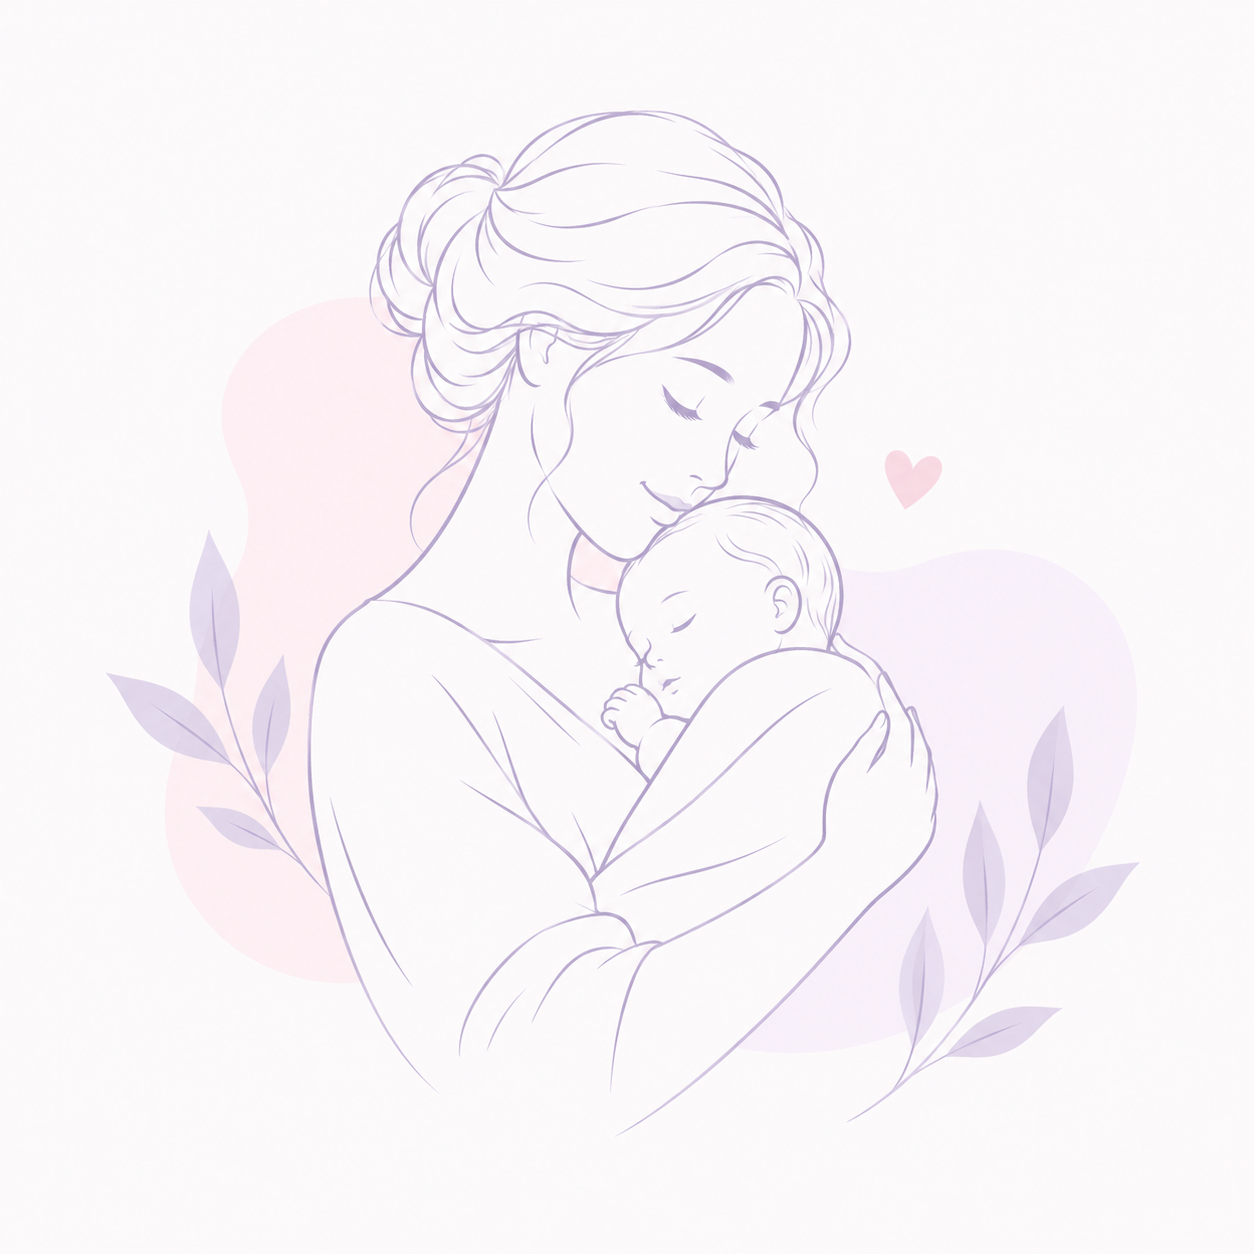
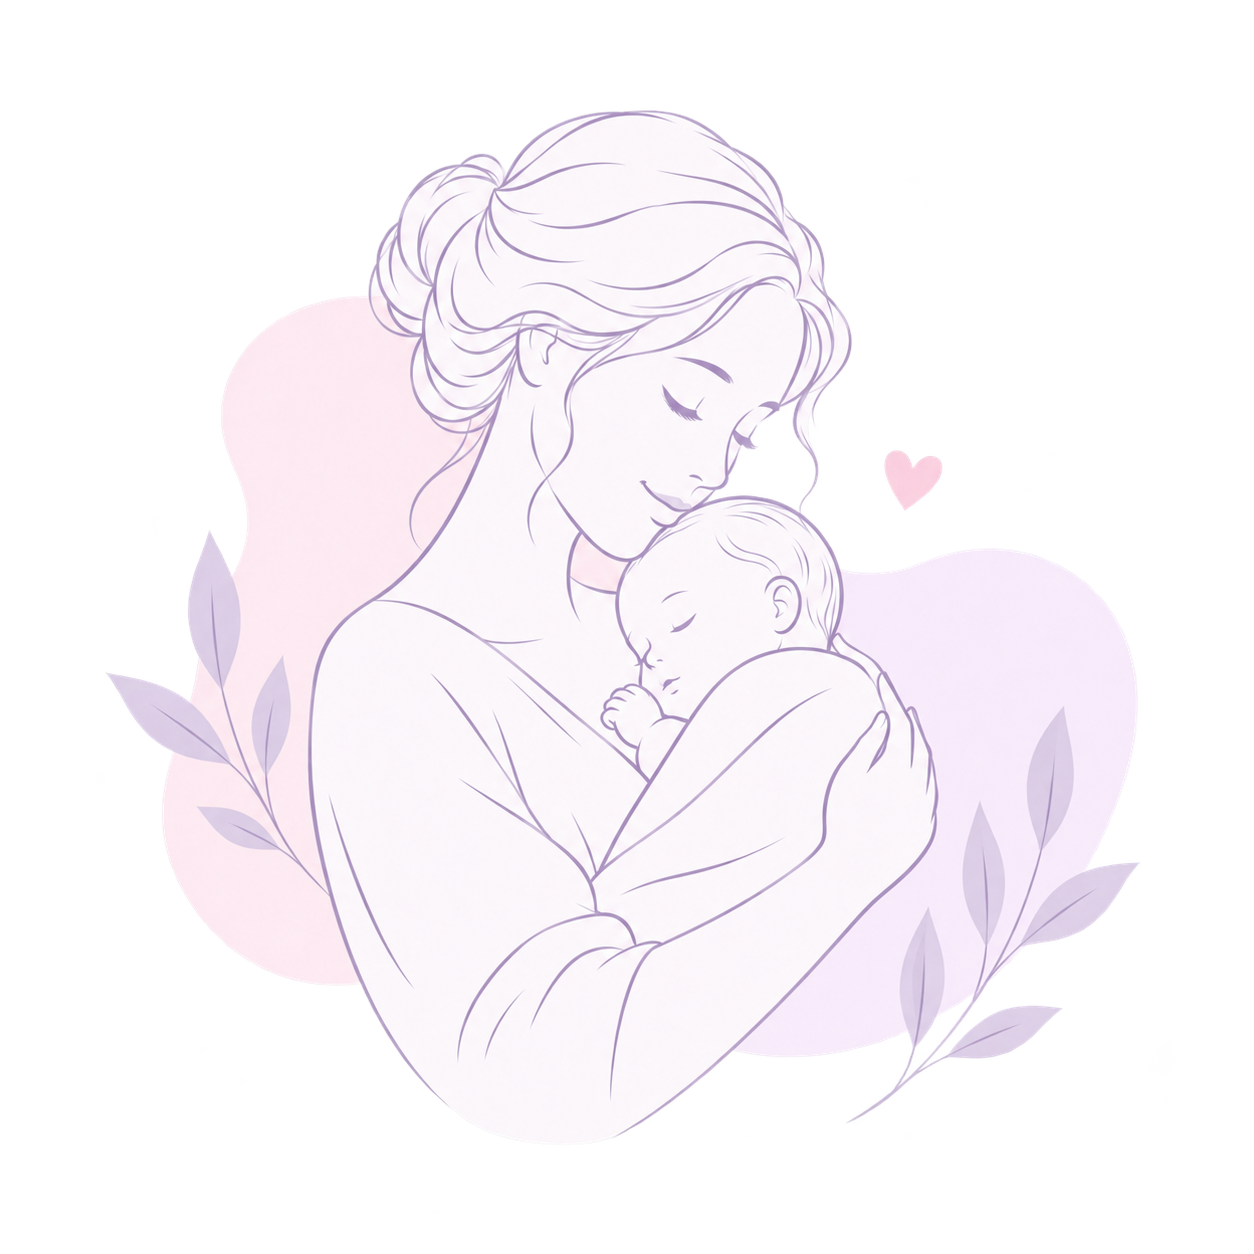
Remove square background from login illustration

diff --git a/Фронт/login.html b/Фронт/login.html
@@ -17,7 +17,7 @@
   <div class="auth-shell">
     <header class="auth-brand">Лёгкие роды <span class="auth-brand-heart" aria-hidden="true">♥</span></header>
     <main class="auth-main auth-main--login">
-      <img class="auth-illustration" src="assets/auth-mother.png" alt="Мама обнимает малыша" width="270" height="240">
+      <img class="auth-illustration" src="assets/auth-mother.png?v=20261105-transparent" alt="Мама обнимает малыша" width="270" height="240">
       <section class="login-flow" aria-labelledby="login-title">
         <h1 class="auth-title" id="login-title" tabindex="-1">Рады видеть вас</h1>
         <p class="auth-subtitle" id="login-intro">Войдите или создайте аккаунт по электронной почте. Пароль не нужен.</p>

diff --git a/docs/DECISIONS.md b/docs/DECISIONS.md
@@ -141,6 +141,16 @@
 
 # Согласованные решения — ВебПрил
 
+## 2026-11-05 — Прозрачный фон иллюстрации входа
+
+Основание: пользователь выделил иллюстрацию на странице входа и попросил
+«убери фон квадратный у картинки».
+
+- Квадратный фон изображения мамы с малышом заменён прозрачностью;
+  рисунок, декоративные листья, сердце и пастельные формы сохранены.
+- Размер и расположение иллюстрации сохраняются. Версия в URL картинки
+  обновлена, чтобы браузер загрузил исправленный файл.
+
 ## 2026-11-05 — Обложка курса «Экспресс 2.0»
 
 Основание: пользователь прислал изображение курса и поручил разместить его
